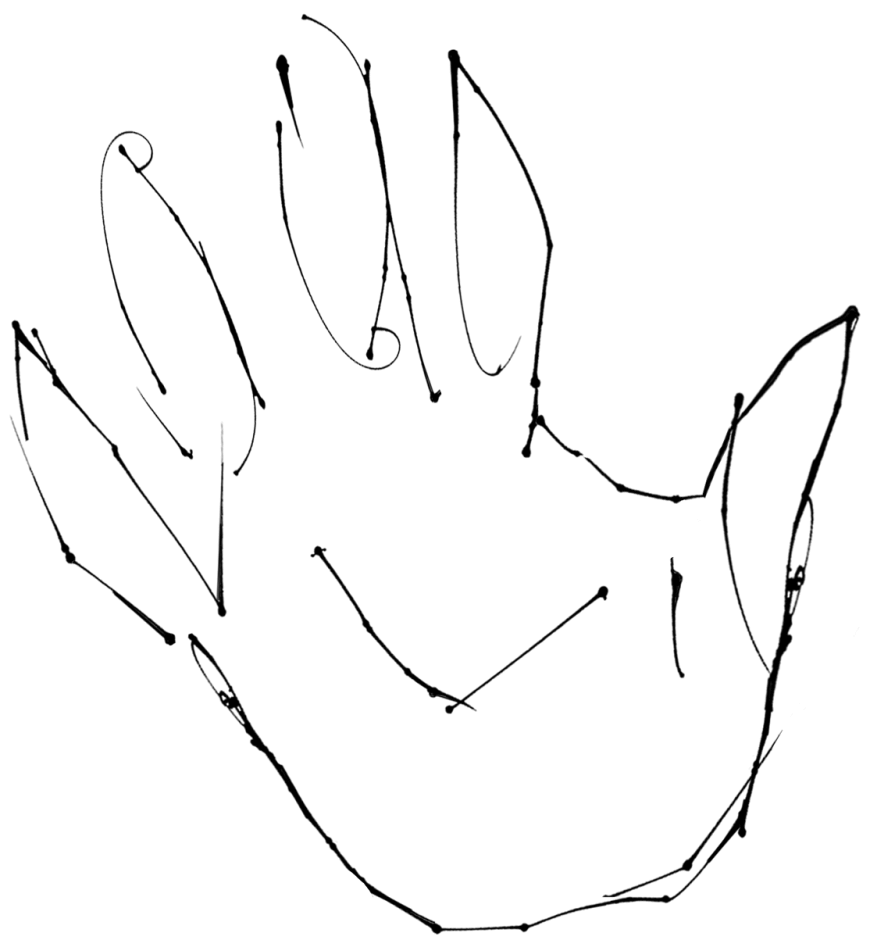
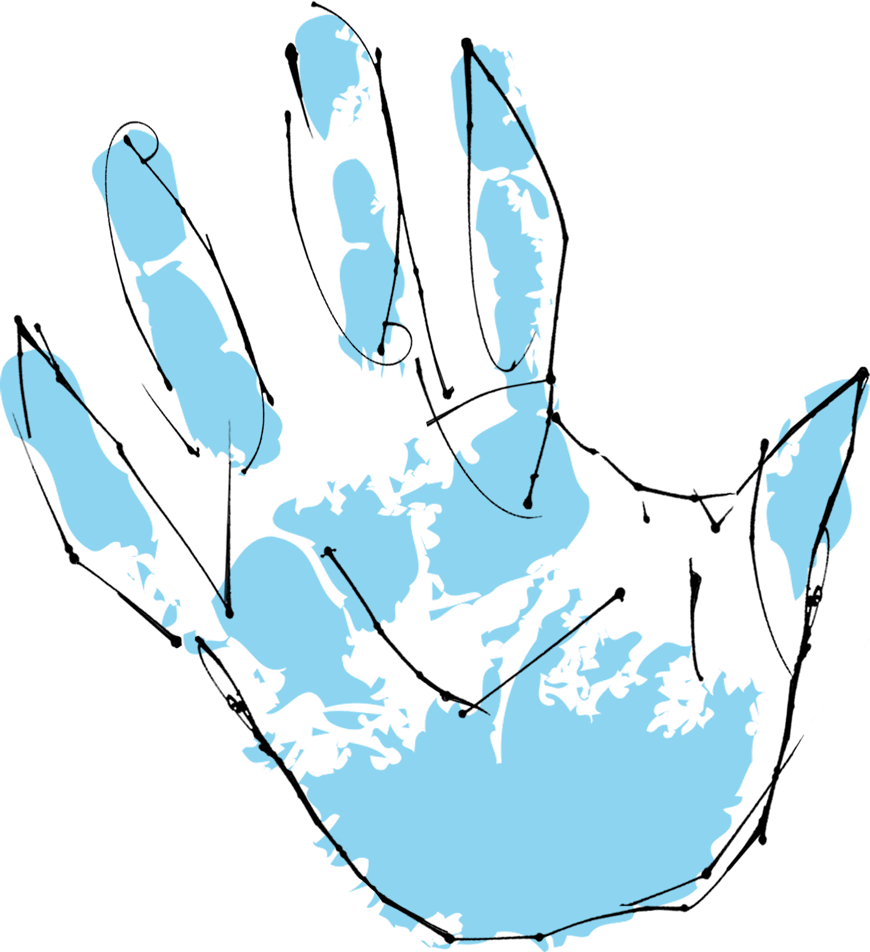
Home animation and slides page

diff --git a/public/css/main.css b/public/css/main.css
@@ -1,37 +1,31 @@
 /*! HTML5 Boilerplate v5.0 | MIT License | http://h5bp.com/ */
 fieldset,hr{border:0;padding:0}html{color:#222;font-size:1em;line-height:1.4}::-moz-selection{background:#b3d4fc;text-shadow:none}::selection{background:#b3d4fc;text-shadow:none}hr{display:block;height:1px;border-top:1px solid #ccc;margin:1em 0}audio,canvas,iframe,img,svg,video{vertical-align:middle}fieldset{margin:0}textarea{resize:vertical}.browserupgrade{margin:.2em 0;background:red;color:#fff;padding:1em 0;text-align:center;font-size:1.5em}
-/* ===== Initializr Styles ==================================================
-   Author: Jonathan Verrecchia - verekia.com/initializr/responsive-template
+body{font:16px/26px Helvetica,Helvetica Neue,Arial}
+/* ==========================================================================
+  Custom styles
 ========================================================================== */
-body{font:16px/26px Helvetica,Helvetica Neue,Arial}.wrapper{width:90%;margin:0 5%}.title{color:#fff}
-.main{padding-top:60px!important;height:100%;background:white;}.main aside{color:grey;padding:0 5% 10px}.footer-container footer{color:#fff;padding:20px 0}.ie7 .title{padding-top:20px}
+@font-face { font-family: woodcut; src: url(../fonts/Woodcut.ttf); }
+html * { font-family: woodcut !important; }
+.wrapper{width:90%;margin:0 5%}
+.title{color:#fff}
+.main{padding-top:60px!important;height:100%;background:white;}
+.main aside{color:grey;padding:0 5% 10px}
+.footer-container{position:relative;top:83%;width:100%;height:45px;overflow: hidden;}
+.sm-icons{float:right;margin-right: 25px; }
+.skip-text{float:left;margin-left:200px;}
 .wall-gradient{height:100%;width:100%;position:absolute;z-index: -5;}
-.left-grad{
-	width:50%;
-	height:100%;
-	display:inline-block;
-	float:left;
-	background: #62d6f2; /* For browsers that do not support gradients */
+.left-grad{width:50%;height:100%;display:inline-block;float:left;
+  background: #62d6f2; /* For browsers that do not support gradients */
   background: -webkit-linear-gradient(-90deg, #62d6f2, white); /* For Safari 5.1 to 6.0 */
-	background: -o-linear-gradient(-90deg, #62d6f2, white); /* For Opera 11.1 to 12.0 */
-	background: -moz-linear-gradient(-90deg, #62d6f2, white); /* For Firefox 3.6 to 15 */
-	background: linear-gradient(-90deg, #62d6f2, white); /* Standard syntax */ /* Standard syntax (must be last) */}
-.right-grad{
-	width:50%;
-	height:100%;
-	display:inline-block;
-	float:right;
-	background: #62d6f2; /* For browsers that do not support gradients */
+  background: -o-linear-gradient(-90deg, #62d6f2, white); /* For Opera 11.1 to 12.0 */
+  background: -moz-linear-gradient(-90deg, #62d6f2, white); /* For Firefox 3.6 to 15 */
+  background: linear-gradient(-90deg, #62d6f2, white); /* Standard syntax */ /* Standard syntax (must be last) */}
+.right-grad{width:50%;height:100%;display:inline-block;float:right;
+  background: #62d6f2; /* For browsers that do not support gradients */
   background: -webkit-linear-gradient(left, #62d6f2 , white); /* For Safari 5.1 to 6.0 */
   background: -o-linear-gradient(right, #62d6f2, white); /* For Opera 11.1 to 12.0 */
   background: -moz-linear-gradient(right, #62d6f2, white); /* For Firefox 3.6 to 15 */
   background: linear-gradient(to right, #62d6f2 , white); /* Standard syntax (must be last) */}
-/* ==========================================================================
-   Author's custom styles
-========================================================================== */
-@font-face { font-family: woodcut; src: url(../fonts/Woodcut.ttf); }
-html * { font-family: woodcut !important; }
-.footer-container{ display:none; }
 .main-container{overflow:hidden;height:100%;}
 .main aside p{ font-size:1.1em; text-align: center; margin-top:10px; line-height: 1em; }
 .main aside img{ height:100px; }
@@ -73,7 +67,6 @@ html * { font-family: woodcut !important; }
 #img-container-aboutus h2.ui.header .sub.header{font-size: 0.9em; color: #464646;} 
 #img-container-aboutus p{font-size: 0.9em; color: #808080;line-height: 1;margin-bottom:12px;}
 #auLine{z-index:-1;position:absolute;width:60%;height:25%;top:20%;}
-
 
 /* ==========================================================================
    Contact Us

diff --git a/resources/views/slides.blade.php b/resources/views/slides.blade.php
@@ -1,0 +1,112 @@
+@extends('_master')
+@section('title', 'Slides')
+@push('styles')
+<style type="text/css">
+    /* jssor slider arrow navigator skin 08 css */
+        /*
+        .jssora08l                  (normal)
+        .jssora08r                  (normal)
+        .jssora08l:hover            (normal mouseover)
+        .jssora08r:hover            (normal mouseover)
+        .jssora08l.jssora08ldn      (mousedown)
+        .jssora08r.jssora08rdn      (mousedown)
+        .jssora08l.jssora08lds      (disabled)
+        .jssora08r.jssora08rds      (disabled)
+        */
+        .jssora08l, .jssora08r {
+            display: block;
+            position: absolute;
+            /* size of arrow element */
+            width: 50px;
+            height: 50px;
+            cursor: pointer;
+            background: url('{{ asset("images/a08.png") }}') no-repeat;
+            overflow: hidden;
+            opacity: .4;
+            filter: alpha(opacity=40);
+        }
+        .jssora08l { background-position: -5px -35px; }
+        .jssora08r { background-position: -65px -35px; }
+        .jssora08l:hover { background-position: -5px -35px; opacity: .8; filter:alpha(opacity=80); }
+        .jssora08r:hover { background-position: -65px -35px; opacity: .8; filter:alpha(opacity=80); }
+        .jssora08l.jssora08ldn { background-position: -5px -35px; opacity: .3; filter:alpha(opacity=30); }
+        .jssora08r.jssora08rdn { background-position: -65px -35px; opacity: .3; filter:alpha(opacity=30); }
+        .jssora08l.jssora08lds { background-position: -5px -35px; opacity: .3; pointer-events: none; }
+        .jssora08r.jssora08rds { background-position: -65px -35px; opacity: .3; pointer-events: none; }
+
+
+</style>
+@endpush
+@push('scripts')
+<script src="{{ asset('js/vendor/jssor.slider-21.1.6.min.js') }}"></script>
+<script>
+jssor_1_slider_init = function() {
+    var jssor_1_options = {
+      $AutoPlay: false,
+      $DragOrientation: 2,
+      $PlayOrientation: 2,
+      $ArrowNavigatorOptions: {
+        $Class: $JssorArrowNavigator$
+      }
+    };
+
+    var jssor_1_slider = new $JssorSlider$("jssor_1", jssor_1_options);
+
+    /*responsive code begin*/
+    /*you can remove responsive code if you don't want the slider scales while window resizing*/
+    function ScaleSlider() {
+        var refSize = jssor_1_slider.$Elmt.parentNode.clientWidth;
+        if (refSize) {
+            refSize = Math.min(refSize, 600);
+            jssor_1_slider.$ScaleWidth(refSize);
+        }
+        else {
+            window.setTimeout(ScaleSlider, 30);
+        }
+    }
+    ScaleSlider();
+    $Jssor$.$AddEvent(window, "load", ScaleSlider);
+    $Jssor$.$AddEvent(window, "resize", ScaleSlider);
+    $Jssor$.$AddEvent(window, "orientationchange", ScaleSlider);
+    /*responsive code end*/
+};
+
+</script>
+@endpush
+
+@section('content')
+<div class="main-content">
+  <div id="jssor_1" style="position: relative; margin: 0 auto; top: 0px; left: 0px; width: 600px; height: 520px; overflow: hidden; visibility: hidden;">
+        <!-- Loading Screen -->
+        <div data-u="loading" style="position: absolute; top: 0px; left: 0px;">
+            <div style="filter: alpha(opacity=70); opacity: 0.7; position: absolute; display: block; top: 0px; left: 0px; width: 100%; height: 100%;"></div>
+            <div style="position:absolute;display:block;background:url('{{ asset('images/loading.gif')}}') no-repeat center center;top:0px;left:0px;width:100%;height:100%;"></div>
+        </div>
+        <div data-u="slides" style="cursor: default; position: relative; top: 0px; left: 0px; width: 600px; height: 350px; overflow: hidden;">
+            <div data-p="112.50">
+                <img data-u="image" src="{{ asset('images/a1.png') }}" />
+                <div class="slide-caption">
+                    <button>open</button>
+                    <span>sdf sdfsdfsd fsdf sdfsd fsdf sdf sdfsf sdfsdf sdf sfsdfsd</span>
+                </div>
+            </div>
+            <div data-p="112.50" style="display: none;">
+                <img data-u="image" src="{{ asset('images/a1.png') }}" />
+            </div>
+            <div data-p="112.50" style="display: none;">
+                <img data-u="image" src="{{ asset('images/a1.png') }}" />
+            </div>
+            <a data-u="any" href="http://www.jssor.com" style="display:none">Vertical Slider</a>
+            <div data-p="112.50" style="display: none;">
+                <img data-u="image" src="{{ asset('images/a1.png') }}" />
+            </div>
+        </div>
+        <!-- Arrow Navigator -->
+        <span data-u="arrowleft" class="jssora08l" style="top:8px;left:8px;width:50px;height:50px;" data-autocenter="1"></span>
+        <span data-u="arrowright" class="jssora08r" style="bottom:8px;right:8px;width:50px;height:50px;" data-autocenter="1"></span>
+    </div>
+    <script type="text/javascript">jssor_1_slider_init();</script>
+
+</div>  
+
+@endsection

diff --git a/resources/views/_master.blade.php b/resources/views/_master.blade.php
@@ -17,14 +17,12 @@
         @stack('styles')
         <script>
             if(navigator.userAgent.indexOf("Safari")!=-1){
-                console.log("You are using Safari!");
                 document.write('<link rel="stylesheet" type="text/css" href="{{ asset("css/safari.css") }}" />');
             }
         </script>
         <script src="{{ asset('js/vendor/modernizr-2.8.3-respond-1.4.2.min.js') }}"></script>
         <script src="{{ asset('js/vendor/jquery-3.1.0.min.js') }}"></script>
         <script src="{{ asset('js/vendor/semantic.min.js') }}"></script>
-        <script src="{{ asset('js/vendor/snap.svg-min.js') }}"></script>
         <script src="{{ asset('js/main.js') }}"></script>
         @stack('scripts')
     </head>
@@ -48,14 +46,26 @@
                 <a href="{{ url('/') }}" class="menu-url">
                     <div class="menu-circle" id="home-menu">home</div>
                 </a>
-                <a href="{{ url('about-us') }}" class="menu-url">
-                <div class="menu-circle {{ Request::segment(1) == 'about-us' || Request::segment(1) == '' ? '' : 'invisible' }}" id="about-menu">about us</div></a>
-                <a href="{{ url('clients') }}" class="menu-url"><div class="menu-circle {{ Request::segment(1) == 'clients' || Request::segment(1) == '' ? '' : 'invisible' }}" id="clients-menu">clients</div></a>
-                <a href="{{ url('portfolio') }}" class="menu-url"><div class="menu-circle {{ Request::segment(1) == 'portfolio'  || Request::segment(1) == '' ? '' : 'invisible'}} " id="portfolio-menu">portfolio</div></a>
-                <a href="{{ url('contact-us') }}" class="menu-url"><div class="menu-circle {{ Request::segment(1) == 'contact-us'  || Request::segment(1) == '' ? '' : 'invisible'}}" id="contact-us-menu">contact us</div></a>
+                <a href="{{ url('about-us') }}" class="menu-url"><div class="menu-circle" id="about-menu">about us</div></a>
+                <a href="{{ url('clients') }}" class="menu-url"><div class="menu-circle" id="clients-menu">clients</div></a>
+                <a href="{{ url('portfolio') }}" class="menu-url"><div class="menu-circle" id="portfolio-menu">portfolio</div></a>
+                <a href="{{ url('contact-us') }}" class="menu-url"><div class="menu-circle" id="contact-us-menu">contact us</div></a>
             </nav>
-               @yield('content')
-  
+            @yield('content')
+            <footer class="footer-container">
+                <div class="skip-text">
+                    
+                </div>
+                <div class="sm-icons">
+                    <a href="https://www.facebook.com/bci.enav" target="_blank">
+                        <img src="{{ asset('images/fb-icon.png') }}">
+                    </a>
+                    <a href="https://www.linkedin.com/company/bci-enav" target="_blank">
+                        <img src="{{ asset('images/linkedin-icon.png') }}">    
+                    </a>
+                    
+                <div>
+            </footer>
         </div> <!-- #main -->
     </div> <!-- #main-container -->
     </body>

diff --git a/resources/views/index.blade.php b/resources/views/index.blade.php
@@ -16,15 +16,8 @@
         #clients-menu:after{ display:none;}
         #about-menu:after{display:none;}
 
-        .line-path {
-          stroke-dasharray: 1000;
-          stroke-dashoffset: 1000;
-          animation: dash 5s linear forwards;
-        }
-
-        #home-menu-line{
-            transform: translate(-20px, 115px);
-        }
+        .line-path{display:none;}
+        #art-hand{display:none;}
 
         @keyframes dash {
           to {
@@ -36,13 +29,27 @@
 @endpush
 @push('scripts')
 <script>
-  
+    $(document).ready(function(){
+        $('.skip-text').html('<a href="{{ url("slides") }}"><h1>Skip</h1></a>');
+        $("#art-hand").fadeIn(2500,function(){
+            $('.line-path').css({
+                "display":"block",
+                "stroke-dasharray":"1000",
+                "stroke-dashoffset":"1000",
+                "animation": "dash 7s linear forwards"
+            });
+            setTimeout(function(){
+                window.location = "{{ url('slides')}} ";
+            },6500);
+        });    
+
+    });
 </script>
 @endpush
 
 @section('content')
     <div id="line-art-connection">
-        <svg height="570" width="590">
+        <svg height="570" width="590" id="lines-hand">
           <line class="line-path" x1="0" y1="13%" x2="91%" y2="56%" style="stroke:#B9B9B9;stroke-width:2" />
           <line class="line-path" x1="0" y1="33%" x2="69%" y2="35%" style="stroke:#B9B9B9;stroke-width:2" />
           <line class="line-path" x1="0" y1="55%" x2="55%" y2="29%" style="stroke:#B9B9B9;stroke-width:2" />

diff --git a/app/Http/Controllers/FrontEndController.php b/app/Http/Controllers/FrontEndController.php
@@ -58,6 +58,11 @@ class FrontEndController extends Controller
     			$page = $this->page_category->where('page_category_id',4)->first();
     			$result = ['page_name'=>$name,'content'=>$content,'page_desc'=>$page->page_description];
     			break;
+            case 'slides':
+                $content = $this->page_content->where('page_category_id',5)->first();
+                $page = $this->page_category->where('page_category_id',5)->first();
+                $result = ['page_name'=>$name,'content'=>$content,'page_desc'=>$page->page_description];
+                break;
     		default:
     			abort(404);
     			break;		
